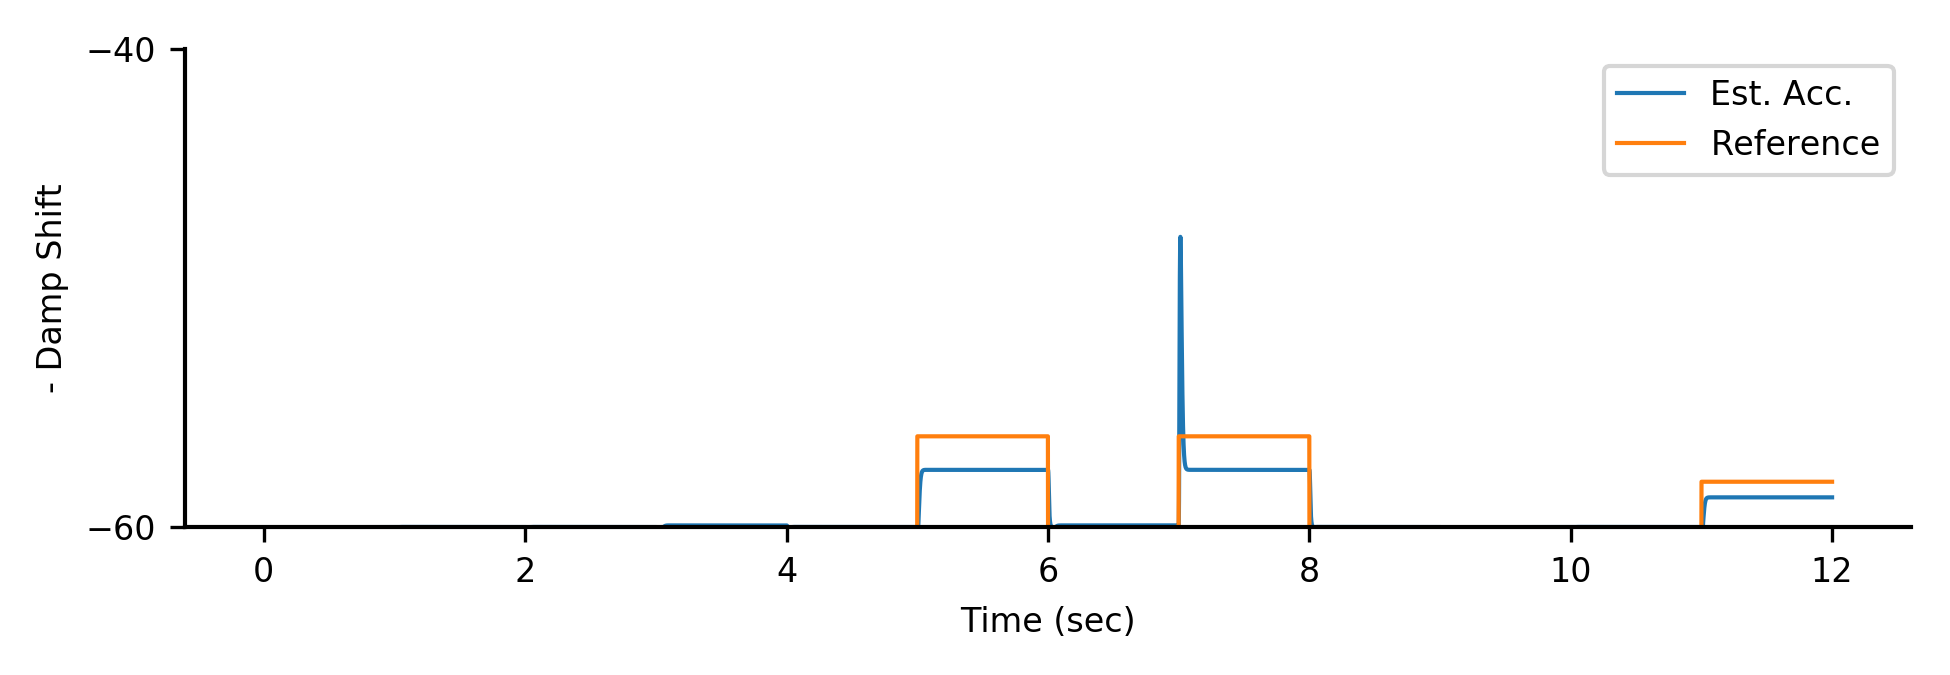
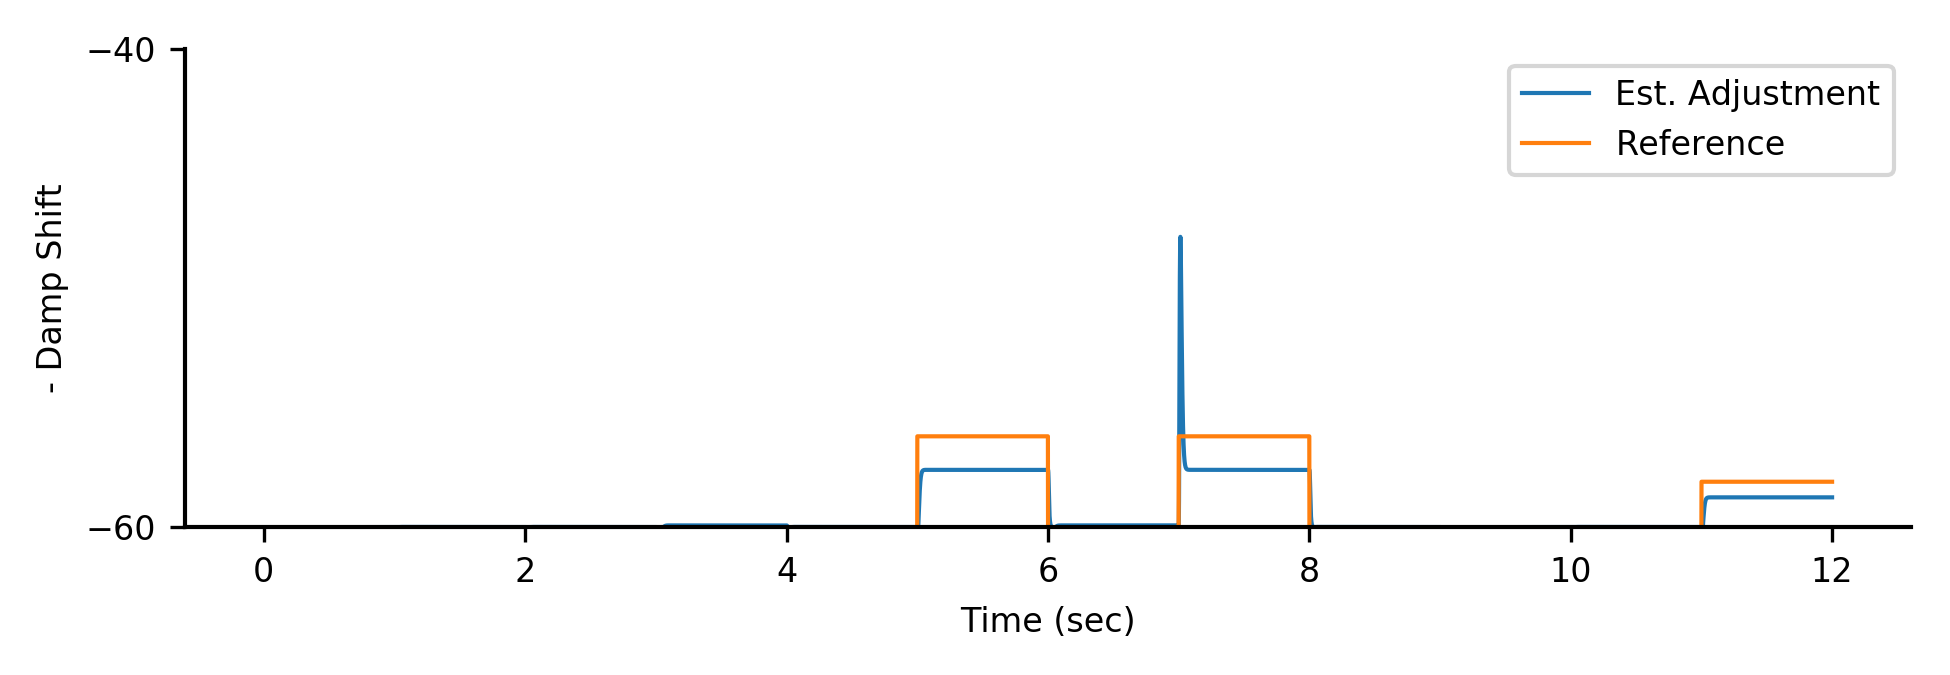
Update TODOs, fix legends and that kinda thing

Changed region(s): [[0.7692, 0.1867, 0.9538, 0.2489], [0.7692, 0.0933, 0.9846, 0.1556], [0.7692, 0.2489, 0.8308, 0.28]]

diff --git a/writeup/chapters/results.tex b/writeup/chapters/results.tex
@@ -43,8 +43,6 @@ and tracking capabilities of the general algorithm. It was also used to find a
 suitable simplification of the internal model that was sufficiently accurate for
 optimization but had minimal parameters to tune.
 
-% TODO(buckbaskin): start by fixing the weight update to match the math I wrote about
-
 \bbss{Simplified Controller}
 
 The simplified controller demonstrates effective control once the weight updates
@@ -112,12 +110,7 @@ not intuitive. See \myref{fig:StateUpdateSimple}.
 
 \section{Neuron Controller}
 
-% TODO(buckbaskin): Start by showing it not working well
-% TODO(buckbaskin): Then show results of it working well
-
 \bbss{Test Results}
-
-% TODO(buckbaskin): regenerate these figures as wider versions of the original
 
 \begin{figure}
 \centering
@@ -134,8 +127,6 @@ not intuitive. See \myref{fig:StateUpdateSimple}.
 \end{figure}
 
 % TODO(buckbaskin): do something consistent or creative with these captions
-% TODO(buckbaskin): fix + and - in graphic by using count. Also, x ticks and time
-% TODO(buckbaskin): check the legend
 
 \begin{figure}
 \centering

diff --git a/writeup/scripts/plot_accel.py b/writeup/scripts/plot_accel.py
@@ -42,30 +42,28 @@ setup = [
 ('Neg', [neg_net, neg_ref]),
 ]
 
-fig = plt.figure(figsize=(3,2.25,), dpi=300)
-ax1 = fig.add_subplot('211')
-ax2 = fig.add_subplot('212')
+# fig = plt.figure(figsize=(3,2.25,), dpi=300)
+# ax1 = fig.add_subplot('211')
+# ax2 = fig.add_subplot('212')
 count = 0
 for name, datasets in setup:
     # if count == 0:
     #     ax = ax1
     # else:
     #     ax = ax2
-    # count += 1
+    count += 1
     fig = plt.figure(figsize=(6.5,2.25,), dpi=300)
     ax = fig.add_subplot('111')
 
     vel, ref = datasets
-    # print(len(time))
     ax.plot(time[5000:], vel[5000:], linewidth=linewidth, label='Est. Acc.')
     ax.plot(time[5000:], ref[5000:], linewidth=linewidth, label='Reference')
     
     if count == 1:
         ax.set_ylabel('+ Accel (mV)')
-        ax.set_xticks([])
     else:
-        ax.set_xlabel('Time (sec)')
         ax.set_ylabel('- Accel (mV)')
+    ax.set_xlabel('Time (sec)')
 
     ax.set_ylim(-60, -40)
     ax.set_yticks([-60, -40])

diff --git a/writeup/scripts/plot_vel.py b/writeup/scripts/plot_vel.py
@@ -22,16 +22,16 @@ setup = [
 ('Neg', [neg_vel, neg_ref]),
 ]
 
-fig = plt.figure(figsize=(3,2.25,), dpi=300)
-ax1 = fig.add_subplot('211')
-ax2 = fig.add_subplot('212')
+# fig = plt.figure(figsize=(3,2.25,), dpi=300)
+# ax1 = fig.add_subplot('211')
+# ax2 = fig.add_subplot('212')
 count = 0
 for name, datasets in setup:
     # if count == 0:
     #     ax = ax1
     # else:
     #     ax = ax2
-    # count += 1
+    count += 1
     fig = plt.figure(figsize=(6.5,2.25,), dpi=300)
     ax = fig.add_subplot('111')
 
@@ -42,10 +42,9 @@ for name, datasets in setup:
     
     if count == 1:
         ax.set_ylabel('+ Vel (mV)')
-        ax.set_xticks([])
     else:
-        ax.set_xlabel('Time (sec)')
         ax.set_ylabel('- Vel (mV)')
+    ax.set_xlabel('Time (sec)')
 
     ax.set_ylim(-60, -40)
     ax.set_yticks([-60, -40])

diff --git a/writeup/scripts/plot_SystemC.py b/writeup/scripts/plot_SystemC.py
@@ -80,9 +80,9 @@ for name, datasets in setup:
 
     vel, ref = datasets
     # print(len(time))
-    ax.plot(time[5000:], vel[5000:], linewidth=linewidth, label='Est. Acc.')
+    ax.plot(time[5000:], vel[5000:], linewidth=linewidth, label='Est. Adjustment')
     ax.plot(time[5000:], ref[5000:], linewidth=linewidth, label='Reference')
-    
+
     if count == 1:
         ax.set_ylabel('+ Damp Shift')
     else:
